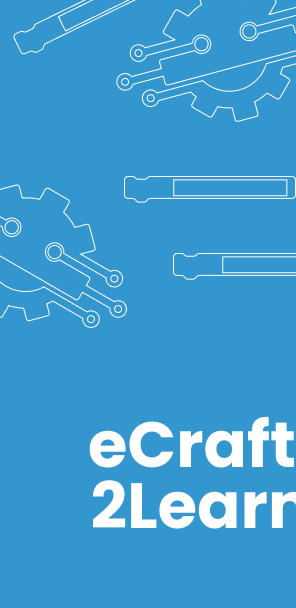
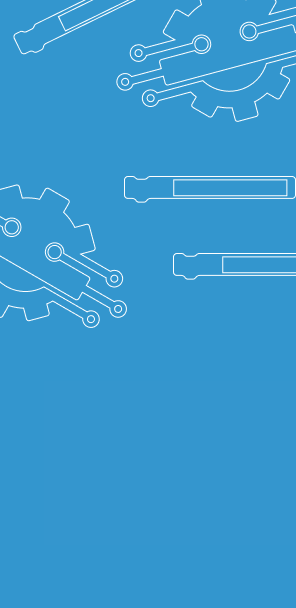
rebranding into ai learning path

Changed region(s): [[0.3041, 0.6875, 1.0, 0.875]]

diff --git a/resources/views/main/home.blade.php b/resources/views/main/home.blade.php
@@ -11,7 +11,7 @@
 @endif
   <div class="flex p-8 h-[30rem] justify-between items-center bg-orange-400 rounded-2xl mt-4">
     <div class="">
-      <p class="font-semibold text-white text-6xl mb-8 drop-shadow-md">Welcome to eCraft2Learn</p>
+      <p class="font-semibold text-white text-6xl mb-8 drop-shadow-md">Welcome to  AI Learning Path</p>
       <p class="text-xl mb-6 text-white">Ayo belajar Artificial Intelligence dengan mudah dan menyenangkan!</p>
       <a href="/courses" class="btn rounded-xl normal-case text-primary hover:bg-secondary hover:text-white border-0">Lihat Courses</a>
     </div>

diff --git a/resources/views/main/layouts/main.blade.php b/resources/views/main/layouts/main.blade.php
@@ -4,7 +4,7 @@
     <meta charset="UTF-8" />
     <meta http-equiv="X-UA-Compatible" content="IE=edge" />
     <meta name="viewport" content="width=device-width, initial-scale=1.0" />
-    <title>{{ $title }} - eCraft2Learn </title>
+    <title>{{ $title }} -  AI Learning Path </title>
     <link rel="icon" type="image/x-icon" href="res/favicon.ico"/>
     <link rel="stylesheet" href="{{ asset('css/app.css') }}">
     <script src="https://code.jquery.com/jquery-3.5.1.min.js"></script>

diff --git a/resources/views/main/sign_in.blade.php b/resources/views/main/sign_in.blade.php
@@ -4,7 +4,7 @@
     <meta charset="UTF-8" />
     <meta http-equiv="X-UA-Compatible" content="IE=edge" />
     <meta name="viewport" content="width=device-width, initial-scale=1.0" />
-    <title>{{ $title }} - eCraft2Learn </title>
+    <title>{{ $title }} -  AI Learning Path </title>
     <link rel="icon" type="image/x-icon" href="/res/favicon.ico"/>
     <link rel="stylesheet" href="{{ asset('css/app.css') }}">
     <script src="{{ asset('js/app.js') }}"></script>

diff --git a/resources/views/main/sign_up.blade.php b/resources/views/main/sign_up.blade.php
@@ -4,7 +4,7 @@
     <meta charset="UTF-8" />
     <meta http-equiv="X-UA-Compatible" content="IE=edge" />
     <meta name="viewport" content="width=device-width, initial-scale=1.0" />
-    <title>{{ $title }} - eCraft2Learn </title>
+    <title>{{ $title }} -  AI Learning Path </title>
     <link rel="icon" type="image/x-icon" href="/res/favicon.ico"/>
     <link rel="stylesheet" href="{{ asset('css/app.css') }}">
     <script src="{{ asset('js/app.js') }}"></script>

diff --git a/resources/views/course/layouts/main.blade.php b/resources/views/course/layouts/main.blade.php
@@ -4,7 +4,7 @@
     <meta charset="UTF-8" />
     <meta http-equiv="X-UA-Compatible" content="IE=edge" />
     <meta name="viewport" content="width=device-width, initial-scale=1.0" />
-    <title>{{ $title }} - eCraft2Learn </title>
+    <title>{{ $title }} - AI Learning Path </title>
     <link rel="icon" type="image/x-icon" href="/res/favicon.ico"/>
     <link rel="stylesheet" href="{{ asset('css/app.css') }}">
     <script src="{{ asset('js/app.js') }}"></script>

diff --git a/resources/views/course/layouts/main_quiz.blade.php b/resources/views/course/layouts/main_quiz.blade.php
@@ -4,7 +4,7 @@
     <meta charset="UTF-8" />
     <meta http-equiv="X-UA-Compatible" content="IE=edge" />
     <meta name="viewport" content="width=device-width, initial-scale=1.0" />
-    <title>{{ $title }} - eCraft2Learn </title>
+    <title>{{ $title }} - AI Learning Path </title>
     <link rel="icon" type="image/x-icon" href="/res/favicon.ico"/>
     <link rel="stylesheet" href="{{ asset('css/app.css') }}">
     <script src="{{ asset('js/app.js') }}"></script>

diff --git a/resources/views/course/summary.blade.php b/resources/views/course/summary.blade.php
@@ -4,7 +4,7 @@
     <meta charset="UTF-8" />
     <meta http-equiv="X-UA-Compatible" content="IE=edge" />
     <meta name="viewport" content="width=device-width, initial-scale=1.0" />
-    <title>{{ $title }} - eCraft2Learn </title>
+    <title>{{ $title }} - AI learning Path </title>
     <link rel="icon" type="image/x-icon" href="/res/favicon.ico"/>
     <link rel="stylesheet" href="{{ asset('css/app.css') }}">
     <script src="{{ asset('js/app.js') }}"></script>

diff --git a/resources/views/admin/layouts/main.blade.php b/resources/views/admin/layouts/main.blade.php
@@ -5,7 +5,7 @@
   <meta charset="UTF-8" />
   <meta http-equiv="X-UA-Compatible" content="IE=edge" />
   <meta name="viewport" content="width=device-width, initial-scale=1.0" />
-  <title>{{ $title }} - eCraft2Learn </title>
+  <title>{{ $title }} - AI Learning Path </title>
   <link rel="icon" type="image/x-icon" href="res/favicon.ico" />
   <link rel="stylesheet" href="{{ asset('css/app.css') }}">
   <script src="{{ asset('js/app.js') }}"></script>

diff --git a/resources/views/admin/home.blade.php b/resources/views/admin/home.blade.php
@@ -3,7 +3,7 @@
 @section('content')
 <div class="flex p-8 h-[24rem] justify-between items-center bg-orange-400 rounded-2xl mt-4">
   <div class="">
-    <p class="font-semibold text-white text-6xl mb-8 drop-shadow-md">Welcome to eCraft2Learn</p>
+    <p class="font-semibold text-white text-6xl mb-8 drop-shadow-md">Welcome to AI Learning Path</p>
   </div>
   <img src="/res/img/ecraft2learn-3d.png" alt="" style="height: 300px;">
 </div>
